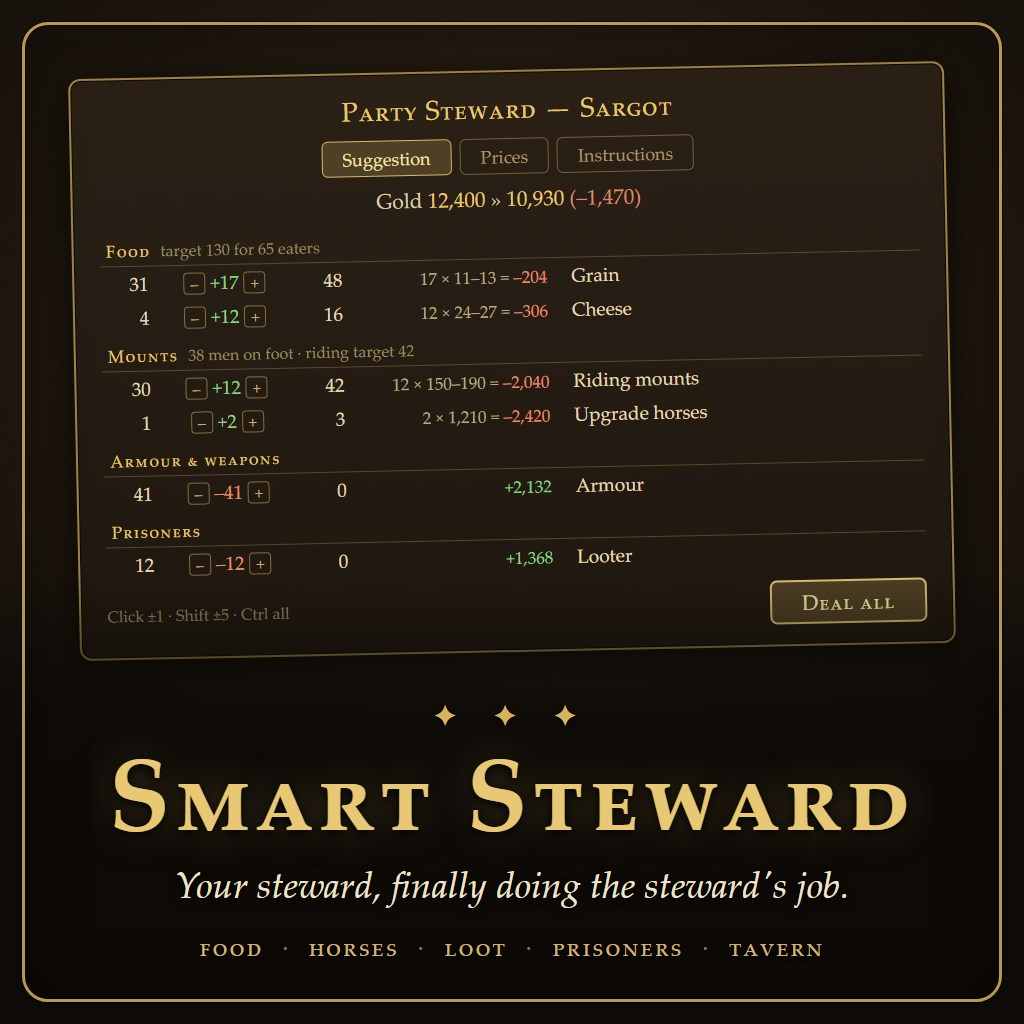
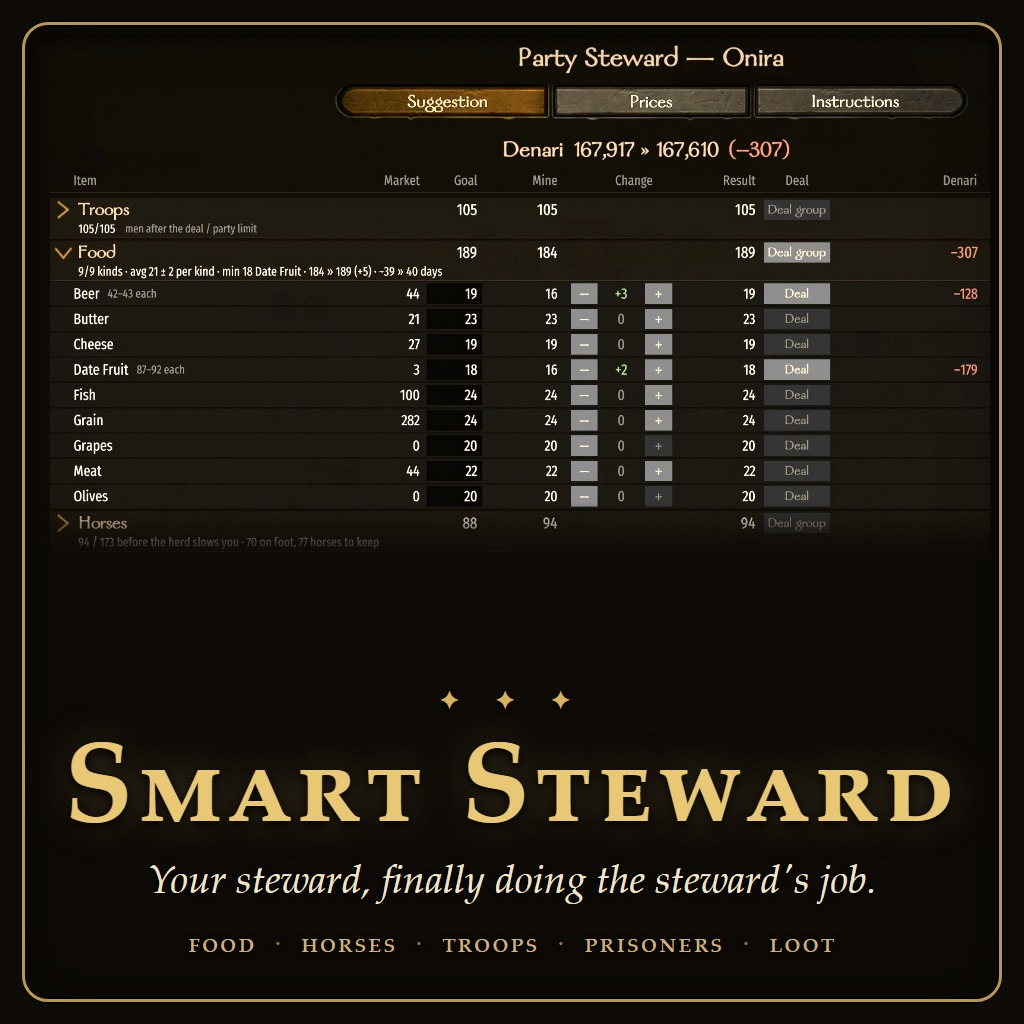
Release images: the real window - 7 gallery shots, Workshop preview and README cover
tools/make_screenshots.py crops Toni's F12 shots (2026-10-10, Onira) to the
Party Steward window alone (no message log, no other mods' widgets) into
Screenshots/01..07; tools/make_thumbnail.py renders preview_thumbnail.html
(1024 square) and the new cover.html (1600x900) from shot 01 with headless
Edge. Replaces render-preview.ps1 and the CSS-drawn stand-in ledger.

diff --git a/tools/preview_thumbnail.html b/tools/preview_thumbnail.html
@@ -1,113 +1,58 @@
 <!DOCTYPE html>
 <!--
-  The Steam Workshop preview (1024 x 1024), in the house style of TrainingBattles / ImmersiveAI: gold frame,
-  title block, feature strip. Render it to Screenshots\preview_thumbnail.jpg (Steam's cap is 1 MB) with:
-    powershell -ExecutionPolicy Bypass -File tools\render-preview.ps1
-  STAND-IN ART: no in-game screenshot existed when this was made (step 10, before Anton's first playtest), so the
-  "ledger" below is the Party Steward's Suggestion table drawn in CSS with made-up but plausible numbers. After the
-  playtest, replace it with a real shot of the window: set .art's background-image to the screenshot (as the
-  sibling mods do), delete the .ledger block, re-render - and upload real screenshots on the item page too.
+  The Steam Workshop preview (1024 x 1024), in the house style of the sibling mods (TrainingBattles, Better Skirmisher
+  Separation): gold frame, Palatino small caps title over a dark fade, one tagline. The art is the REAL Party Steward
+  window (Screenshots\01_suggestion_food.jpg, cropped by the script to title, tabs, Denari and the Food rows).
+  Rendered by:  python tools\make_thumbnail.py      (writes Screenshots\preview_thumbnail.jpg, under Steam's 1 MB)
+  ART_IMG is replaced by the script with the cropped panel's file URI.
 -->
 <html>
 <head>
 <meta charset="utf-8">
 <style>
   * { margin: 0; padding: 0; box-sizing: border-box; }
-  html, body { width: 1024px; height: 1024px; overflow: hidden; }
+  html, body { width: 1024px; height: 1024px; overflow: hidden; background: #0d0a07; }
   .canvas {
-    position: relative;
-    width: 1024px; height: 1024px;
-    background:
-      radial-gradient(ellipse 90% 70% at 50% 34%, #3a2c1b 0%, #1d160e 55%, #0d0a07 100%);
+    position: relative; width: 1024px; height: 1024px; background: #0d0a07;
     font-family: 'Palatino Linotype', 'Book Antiqua', Georgia, serif;
   }
-  /* A real screenshot goes here after the playtest (background-image), and the .ledger goes away. */
-  .art { position: absolute; inset: 0; }
+  .art {
+    position: absolute; left: 34px; top: 34px; width: 956px; height: 618px; border-radius: 16px 16px 0 0;
+    background: url('ART_IMG') center top / 956px 618px no-repeat;
+    filter: brightness(1.12) contrast(1.06);
+  }
   .shade {
     position: absolute; inset: 0;
-    background: linear-gradient(to bottom, rgba(13,10,7,0) 0%, rgba(13,10,7,0) 56%, rgba(13,10,7,0.85) 70%, rgba(13,10,7,1) 78%);
+    background:
+      radial-gradient(ellipse 120% 90% at 50% 30%, rgba(0,0,0,0) 50%, rgba(13,10,7,0.5) 85%, rgba(13,10,7,0.85) 100%),
+      linear-gradient(to bottom, rgba(0,0,0,0) 0%, rgba(0,0,0,0) 49%, rgba(13,10,7,0.8) 53%, rgba(13,10,7,1) 56%);
   }
   .frame {
     position: absolute; inset: 22px;
-    border: 3px solid rgba(214, 178, 94, 0.85);
-    border-radius: 26px;
+    border: 3px solid rgba(214, 178, 94, 0.85); border-radius: 26px;
     box-shadow: 0 0 0 1px rgba(0,0,0,0.6), inset 0 0 0 1px rgba(0,0,0,0.6), inset 0 0 60px rgba(0,0,0,0.35);
   }
-
-  /* ── the Party Steward window, drawn ─────────────────────────────────────── */
-  .ledger {
-    position: absolute; left: 74px; right: 74px; top: 70px;
-    background: linear-gradient(to bottom, #2a2016 0%, #1f1810 100%);
-    border: 2px solid rgba(214, 178, 94, 0.7);
-    border-radius: 12px;
-    box-shadow: 0 10px 40px rgba(0,0,0,0.75), inset 0 0 0 1px rgba(0,0,0,0.7);
-    padding: 18px 26px 20px;
-    color: #e6d8b8;
-    transform: rotate(-1.2deg);
-  }
-  .ledger .title { text-align: center; color: #e8c874; font-size: 27px; letter-spacing: 1px; font-variant: small-caps; }
-  .tabs { display: flex; justify-content: center; gap: 8px; margin: 12px 0 10px; }
-  .tab { padding: 5px 20px; border: 1px solid rgba(214,178,94,0.45); border-radius: 6px; font-size: 18px; color: #a8966e; }
-  .tab.on { background: rgba(214,178,94,0.22); color: #f3e2b0; border-color: rgba(232,200,116,0.9); }
-  .gold { text-align: center; font-size: 21px; margin-bottom: 10px; color: #d9cba8; }
-  .gold b { color: #e8c874; font-weight: normal; }
-  .gold .minus { color: #d98a6e; }
-  table { width: 100%; border-collapse: collapse; font-size: 19px; font-variant-numeric: tabular-nums; }
-  td { padding: 4px 6px; white-space: nowrap; }
-  tr.sec td { padding-top: 9px; color: #e8c874; font-size: 17px; letter-spacing: 1.5px; font-variant: small-caps; border-bottom: 1px solid rgba(214,178,94,0.3); }
-  tr.sec td span { color: #9c8a64; letter-spacing: 0; font-variant: normal; font-size: 16px; }
-  td.n { text-align: right; width: 54px; }
-  td.chg { text-align: center; width: 140px; }
-  td.chg i { font-style: normal; display: inline-block; width: 22px; height: 22px; line-height: 20px; margin: 0 5px;
-             border: 1px solid rgba(214,178,94,0.55); border-radius: 4px; font-size: 16px; color: #cdb27a; text-align: center; }
-  td.price { text-align: right; width: 205px; color: #b9a984; font-size: 17px; }
-  td.item { padding-left: 18px; }
-  .buy { color: #8fd18a; }
-  .sell { color: #e58f76; }
-  .foot { display: flex; justify-content: space-between; align-items: center; margin-top: 12px; font-size: 16px; color: #9c8a64; }
-  .doit { padding: 6px 30px; border: 2px solid rgba(232,200,116,0.95); border-radius: 7px; color: #f6e7bc;
-          background: rgba(214,178,94,0.25); font-size: 21px; font-variant: small-caps; letter-spacing: 1px; }
-
-  /* ── the title block, as the sibling mods ────────────────────────────────── */
-  .titleblock { position: absolute; left: 0; right: 0; bottom: 60px; text-align: center; }
-  .ornament { color: #d6b25e; font-size: 30px; letter-spacing: 14px; text-shadow: 0 2px 6px rgba(0,0,0,0.9); margin-bottom: 8px; }
+  .titleblock { position: absolute; left: 0; right: 0; bottom: 64px; text-align: center; }
+  .ornament { color: #d6b25e; font-size: 26px; letter-spacing: 14px; text-shadow: 0 2px 6px rgba(0,0,0,0.9); margin-bottom: 6px; }
   h1 {
-    color: #e8c874; font-size: 100px; font-weight: 600; letter-spacing: 5px; font-variant: small-caps; line-height: 1;
+    color: #e8c874; font-size: 112px; font-weight: 600; letter-spacing: 5px; font-variant: small-caps; line-height: 1;
     text-shadow: 0 3px 10px rgba(0,0,0,0.95), 0 0 45px rgba(232, 200, 116, 0.28);
   }
-  .tagline { margin-top: 16px; color: #f0e4c8; font-size: 37px; font-style: italic; text-shadow: 0 2px 8px rgba(0,0,0,0.95); }
-  .features { margin-top: 20px; color: #cdb27a; font-size: 26px; font-variant: small-caps; letter-spacing: 2px; text-shadow: 0 2px 6px rgba(0,0,0,0.95); }
-  .features .dot { color: #8a7448; padding: 0 10px; }
+  .tagline { margin-top: 16px; color: #f0e4c8; font-size: 40px; font-style: italic; text-shadow: 0 2px 8px rgba(0,0,0,0.95); }
+  .features { margin-top: 18px; color: #cdb27a; font-size: 28px; font-variant: small-caps; letter-spacing: 2px; text-shadow: 0 2px 6px rgba(0,0,0,0.95); }
+  .features .dot { color: #8a7448; padding: 0 9px; }
 </style>
 </head>
 <body>
   <div class="canvas">
     <div class="art"></div>
-    <div class="ledger">
-      <div class="title">Party Steward — Sargot</div>
-      <div class="tabs"><span class="tab on">Suggestion</span><span class="tab">Prices</span><span class="tab">Instructions</span></div>
-      <div class="gold">Gold <b>12,400</b> » <b>10,930</b> <span class="minus">(–1,470)</span></div>
-      <table>
-        <tr class="sec"><td colspan="5">Food <span>&nbsp;target 130 for 65 eaters</span></td></tr>
-        <tr><td class="n">31</td><td class="chg"><i>–</i><span class="buy">+17</span><i>+</i></td><td class="n">48</td><td class="price">17 × 11–13 = <span class="sell">–204</span></td><td class="item">Grain</td></tr>
-        <tr><td class="n">4</td><td class="chg"><i>–</i><span class="buy">+12</span><i>+</i></td><td class="n">16</td><td class="price">12 × 24–27 = <span class="sell">–306</span></td><td class="item">Cheese</td></tr>
-        <tr class="sec"><td colspan="5">Mounts <span>&nbsp;38 men on foot · riding target 42</span></td></tr>
-        <tr><td class="n">30</td><td class="chg"><i>–</i><span class="buy">+12</span><i>+</i></td><td class="n">42</td><td class="price">12 × 150–190 = <span class="sell">–2,040</span></td><td class="item">Riding mounts</td></tr>
-        <tr><td class="n">1</td><td class="chg"><i>–</i><span class="buy">+2</span><i>+</i></td><td class="n">3</td><td class="price">2 × 1,210 = <span class="sell">–2,420</span></td><td class="item">Upgrade horses</td></tr>
-        <tr class="sec"><td colspan="5">Armour &amp; weapons</td></tr>
-        <tr><td class="n">41</td><td class="chg"><i>–</i><span class="sell">–41</span><i>+</i></td><td class="n">0</td><td class="price"><span class="buy">+2,132</span></td><td class="item">Armour</td></tr>
-        <tr class="sec"><td colspan="5">Prisoners</td></tr>
-        <tr><td class="n">12</td><td class="chg"><i>–</i><span class="sell">–12</span><i>+</i></td><td class="n">0</td><td class="price"><span class="buy">+1,368</span></td><td class="item">Looter</td></tr>
-      </table>
-      <div class="foot"><span>Click ±1 · Shift ±5 · Ctrl all</span><span class="doit">Deal all</span></div>
-    </div>
     <div class="shade"></div>
     <div class="frame"></div>
     <div class="titleblock">
       <div class="ornament">✦ ✦ ✦</div>
       <h1>Smart Steward</h1>
       <div class="tagline">Your steward, finally doing the steward's job.</div>
-      <div class="features">food <span class="dot">·</span> horses <span class="dot">·</span> loot <span class="dot">·</span> prisoners <span class="dot">·</span> tavern</div>
+      <div class="features">food <span class="dot">·</span> horses <span class="dot">·</span> troops <span class="dot">·</span> prisoners <span class="dot">·</span> loot</div>
     </div>
   </div>
 </body>

diff --git a/tools/cover.html b/tools/cover.html
@@ -1,0 +1,54 @@
+<!DOCTYPE html>
+<!--
+  The README cover (1600 x 900): the real Party Steward window on top (Screenshots\01_suggestion_food.jpg, cropped by
+  the script from the title down to the Horses line), then the title block in the thumbnail's style - gold frame,
+  Palatino small caps, one tagline. Rendered by:  python tools\make_thumbnail.py  (writes Screenshots\cover.jpg)
+  ART_IMG is replaced by the script with the cropped panel's file URI.
+-->
+<html>
+<head>
+<meta charset="utf-8">
+<style>
+  * { margin: 0; padding: 0; box-sizing: border-box; }
+  html, body { width: 1600px; height: 900px; overflow: hidden; background: #0d0a07; }
+  .canvas {
+    position: relative; width: 1600px; height: 900px; background: #0d0a07;
+    font-family: 'Palatino Linotype', 'Book Antiqua', Georgia, serif;
+  }
+  .art {
+    position: absolute; left: 32px; top: 32px; width: 1536px; height: 648px; border-radius: 16px 16px 0 0;
+    background: url('ART_IMG') center top / 1536px 648px no-repeat;
+    filter: brightness(1.1) contrast(1.05);
+  }
+  .shade {
+    position: absolute; inset: 0;
+    background:
+      radial-gradient(ellipse 120% 100% at 50% 30%, rgba(0,0,0,0) 55%, rgba(13,10,7,0.5) 88%, rgba(13,10,7,0.8) 100%),
+      linear-gradient(to bottom, rgba(0,0,0,0) 0%, rgba(0,0,0,0) 62%, rgba(13,10,7,0.85) 72%, rgba(13,10,7,1) 78%);
+  }
+  .frame {
+    position: absolute; inset: 20px;
+    border: 3px solid rgba(214, 178, 94, 0.85); border-radius: 26px;
+    box-shadow: 0 0 0 1px rgba(0,0,0,0.6), inset 0 0 0 1px rgba(0,0,0,0.6), inset 0 0 60px rgba(0,0,0,0.35);
+  }
+  .titleblock { position: absolute; left: 0; right: 0; bottom: 52px; text-align: center; }
+  h1 {
+    color: #e8c874; font-size: 96px; font-weight: 600; letter-spacing: 5px; font-variant: small-caps; line-height: 1;
+    text-shadow: 0 3px 10px rgba(0,0,0,0.95), 0 0 45px rgba(232, 200, 116, 0.28);
+  }
+  .tagline { margin-top: 12px; color: #f0e4c8; font-size: 38px; font-style: italic; text-shadow: 0 2px 8px rgba(0,0,0,0.95); }
+  .tagline .dot { color: #d6b25e; font-style: normal; padding: 0 14px; }
+</style>
+</head>
+<body>
+  <div class="canvas">
+    <div class="art"></div>
+    <div class="shade"></div>
+    <div class="frame"></div>
+    <div class="titleblock">
+      <h1>Smart Steward</h1>
+      <div class="tagline">Your steward, finally doing the steward's job.</div>
+    </div>
+  </div>
+</body>
+</html>

diff --git a/tools/make_thumbnail.py b/tools/make_thumbnail.py
@@ -1,0 +1,87 @@
+r"""Builds the Steam Workshop preview and the README cover from the real Party Steward window.
+
+    python tools\make_thumbnail.py            # both
+    python tools\make_thumbnail.py --only thumbnail
+    python tools\make_thumbnail.py --only cover
+
+1. Crops Screenshots\01_suggestion_food.jpg (written by make_screenshots.py) to the part each image shows.
+2. Renders tools\preview_thumbnail.html (1024 x 1024) and tools\cover.html (1600 x 900) with headless Edge (or Chrome).
+3. Saves Screenshots\preview_thumbnail.jpg (the Workshop preview, square, under Steam's 1 MB cap) and
+   Screenshots\cover.jpg (the README image), stepping JPEG quality down until each is under 1 MB.
+Style = the sibling mods' thumbnails: gold frame, Palatino small caps title over a dark fade, one tagline.
+Work files (cropped panel, page, PNG) go to %TEMP%\smart_steward_images. Needs Pillow and Edge or Chrome.
+"""
+from __future__ import annotations
+
+import argparse
+import io
+import shutil
+import subprocess
+import sys
+import tempfile
+from pathlib import Path
+
+from PIL import Image
+
+REPO = Path(__file__).resolve().parent.parent
+SHOTS = REPO / "Screenshots"
+SOURCE = SHOTS / "01_suggestion_food.jpg"          # 2118 x 1292, the window alone
+WORK = Path(tempfile.gettempdir()) / "smart_steward_images"
+LIMIT = 1024 * 1024
+BROWSERS = [
+    r"C:\Program Files (x86)\Microsoft\Edge\Application\msedge.exe",
+    r"C:\Program Files\Microsoft\Edge\Application\msedge.exe",
+    r"C:\Program Files\Google\Chrome\Application\chrome.exe",
+]
+
+# name: template, output, page size, crop box in SOURCE pixels (same aspect as the HTML's .art)
+IMAGES = {
+    "thumbnail": ("preview_thumbnail.html", "preview_thumbnail.jpg", (1024, 1024),
+                  (20, 14, 1630, 1055)),    # title, tabs, Denari, Troops, Food rows, Horses; the Denari column last
+    "cover": ("cover.html", "cover.jpg", (1600, 900),
+              (29, 14, 2089, 883)),         # the whole width, title down to the Horses line
+}
+
+
+def render(name: str, browser: str) -> None:
+    template, out_name, (w, h), box = IMAGES[name]
+    panel = WORK / f"{name}_art.png"
+    Image.open(SOURCE).convert("RGB").crop(box).save(panel)
+    page = WORK / f"{name}.html"
+    page.write_text((REPO / "tools" / template).read_text(encoding="utf-8").replace("ART_IMG", panel.as_uri()),
+                    encoding="utf-8")
+    png = WORK / f"{name}.png"
+    png.unlink(missing_ok=True)
+    subprocess.run([browser, "--headless=new", "--disable-gpu", "--hide-scrollbars", "--force-device-scale-factor=1",
+                    "--allow-file-access-from-files", f"--user-data-dir={WORK / 'profile'}",
+                    f"--window-size={w},{h}", f"--screenshot={png}", page.as_uri()],
+                   check=True, capture_output=True, timeout=120)
+    img = Image.open(png).convert("RGB").crop((0, 0, w, h))
+    for q in (92, 90, 88, 85, 82, 78, 74, 70):
+        buf = io.BytesIO()
+        img.save(buf, "JPEG", quality=q, optimize=True, progressive=True)
+        if buf.tell() < LIMIT:
+            break
+    else:
+        sys.exit(f"{out_name} does not fit under 1 MB")
+    (SHOTS / out_name).write_bytes(buf.getvalue())
+    print(f"Screenshots\\{out_name}: {w}x{h}, {buf.tell():,} bytes, q{q}")
+
+
+def main() -> int:
+    ap = argparse.ArgumentParser(description=__doc__, formatter_class=argparse.RawDescriptionHelpFormatter)
+    ap.add_argument("--only", choices=sorted(IMAGES))
+    args = ap.parse_args()
+    if not SOURCE.exists():
+        sys.exit(f"{SOURCE} missing - run tools\\make_screenshots.py first")
+    browser = next((b for b in BROWSERS if Path(b).exists()), None) or shutil.which("msedge") or shutil.which("chrome")
+    if not browser:
+        sys.exit("Edge or Chrome not found.")
+    WORK.mkdir(parents=True, exist_ok=True)
+    for name in ([args.only] if args.only else IMAGES):
+        render(name, browser)
+    return 0
+
+
+if __name__ == "__main__":
+    sys.exit(main())

diff --git a/tools/make_screenshots.py b/tools/make_screenshots.py
@@ -1,0 +1,66 @@
+r"""Copies the chosen F12 shots of the Party Steward window into Screenshots\ - the Workshop gallery and README images.
+
+    python tools\make_screenshots.py                  # from Steam's screenshot folder (the defaults below)
+    python tools\make_screenshots.py --src D:\shots   # or wherever the originals are
+
+Each shot (3440x1440, taken 2026-10-10 in Onira) is cropped to the window alone - the town menu, the message log
+(it showed a Windows user path) and other mods' widgets stay out - and saved as JPEG under 1 MB (Steam's cap per
+image), stepping the quality down if needed. The numbered names are the gallery order, most telling first.
+Not used: the five battle shots of that evening (another mod) and 20261010205912 (the Horses part, already in 02).
+Needs Pillow.
+"""
+from __future__ import annotations
+
+import argparse
+import io
+import sys
+from pathlib import Path
+
+from PIL import Image
+
+REPO = Path(__file__).resolve().parent.parent
+OUT = REPO / "Screenshots"
+STEAM_SHOTS = Path(r"C:\Program Files (x86)\Steam\userdata\258577504\760\remote\261550\screenshots")
+LIMIT = 1024 * 1024
+WINDOW = (660, 74, 2778, 1366)          # the Party Steward window in a 3440x1440 shot, its gold-grey border included
+
+SHOTS = [  # (original, published name)
+    ("20261010205908_1.jpg", "01_suggestion_food.jpg"),
+    ("20261010205832_1.jpg", "02_suggestion_troops_horses.jpg"),
+    ("20261010205841_1.jpg", "03_instructions_general_money.jpg"),
+    ("20261010205846_1.jpg", "04_instructions_goals_food.jpg"),
+    ("20261010205850_1.jpg", "05_instructions_prices_pack_animals.jpg"),
+    ("20261010205853_1.jpg", "06_instructions_mounts.jpg"),
+    ("20261010205856_1.jpg", "07_instructions_prisoners_loot_tavern.jpg"),
+]
+
+
+def save_under_limit(img: Image.Image, path: Path, quality: int = 90) -> tuple[int, int]:
+    while True:
+        buf = io.BytesIO()
+        img.save(buf, "JPEG", quality=quality, optimize=True, progressive=True)
+        if buf.tell() < LIMIT or quality <= 60:
+            break
+        quality -= 4
+    if buf.tell() >= LIMIT:
+        sys.exit(f"{path.name} is still {buf.tell()} bytes at quality {quality}")
+    path.write_bytes(buf.getvalue())
+    return buf.tell(), quality
+
+
+def main() -> int:
+    ap = argparse.ArgumentParser(description=__doc__, formatter_class=argparse.RawDescriptionHelpFormatter)
+    ap.add_argument("--src", type=Path, default=STEAM_SHOTS)
+    args = ap.parse_args()
+    OUT.mkdir(exist_ok=True)
+    for src_name, out_name in SHOTS:
+        img = Image.open(args.src / src_name).convert("RGB")
+        if img.size != (3440, 1440):
+            sys.exit(f"{src_name} is {img.size}, expected 3440x1440 (WINDOW is in those pixels)")
+        size, q = save_under_limit(img.crop(WINDOW), OUT / out_name)
+        print(f"{out_name}: {WINDOW[2] - WINDOW[0]}x{WINDOW[3] - WINDOW[1]}, {size:,} bytes, q{q}")
+    return 0
+
+
+if __name__ == "__main__":
+    sys.exit(main())

diff --git a/TASKS_TODO.md b/TASKS_TODO.md
@@ -220,7 +220,7 @@ NOTICED (things spotted during a step, left for later):
 - [x] Step 9 (left on purpose): surplus riding horses are kept while an upgrade horse is on offer, even when the floors will not let the steward buy it — "never sell and buy mounts in one visit" taken strictly → step 17: the rule is gone (the riding surplus is sold against the war horses the plan buys)
 - [x] Step 10: README — translations welcome: copy module/ModuleData/Languages/std_SmartSteward.xml into Languages\XX (how-to in the file's header) — README + Steam page
 - [ ] Release day (after step 11): tools\WORKSHOP-UPLOAD.md — bump v1.0.0, package.ps1, create Private, paste the page, flip Public
-- [ ] Step 10: the Workshop preview is a drawn stand-in of the window — after the playtest put a real shot in tools\preview_thumbnail.html, re-render (tools\render-preview.ps1)
+- [x] Step 10: the Workshop preview is a drawn stand-in of the window → release prep: real F12 shots, tools\make_thumbnail.py
 - [ ] Step 10: the release ships no PDBs (like TrainingBattles) — with them a player's log would carry line numbers (~100 KB); Anton's call
 - [ ] TrainingBattles' package.ps1 zips with Compress-Archive → backslash entry names (seen in TrainingBattles_v1.4.0.zip); ours writes '/' — port it there
 - [ ] Step 12: a stuck Left Alt (after Alt+Tab) blocks entering towns in vanilla too — tell the player in game ("tap Left Alt")? now log-only (InputWatch); Anton's call

diff --git a/CLAUDE.md b/CLAUDE.md
@@ -245,7 +245,10 @@ tools/package.ps1             (step 10) the release gate + layout: clean build (
 tools/WORKSHOP-UPLOAD.md      (step 10) release day + the update loop + the uploader's quirks; WorkshopCreate.xml (once,
                               Private) / WorkshopUpdate.xml (item id filled after the create); nothing uploads by itself
 tools/STEAM-DESCRIPTION.bbcode  the Workshop page (Steam BBCode, cap 8000 UTF-8 bytes - measure after edits)
-tools/preview_thumbnail.html  the Workshop preview; tools/render-preview.ps1 → Screenshots/preview_thumbnail.jpg (< 1 MB)
+tools/make_screenshots.py     (release) Toni's F12 shots → Screenshots/01..07_*.jpg, cropped to the window (gallery order)
+tools/make_thumbnail.py       (release) preview_thumbnail.html + cover.html (art = Screenshots/01) → Screenshots/
+                              preview_thumbnail.jpg (Workshop preview, 1024², < 1 MB) + cover.jpg (README)
+tools/make_workshop_update.py (release) a one-off update task: WorkshopUpdate.xml + the bbcode, --notes, --visibility
 tools/render-mockup.ps1       (step 19) docs/mockups/suggestion_v2.html → its two PNGs (the everyday view + everything open)
 docs/                         DESIGN.md, RESEARCH.md, PLAYTEST.md (Anton's checklists per step); feedback/ (playtest notes
                               verbatim + screenshots); mockups/ (step 19: the round-4 Suggestion tab as one spreadsheet —

diff --git a/docs/mockups/README.md b/docs/mockups/README.md
@@ -56,7 +56,7 @@ the list below in one reply — "all fine", or the numbers you want changed.
 | `suggestion_v2_folded.png` | Food, Recruits, Your troops and Prisoners' details folded; Horses and Other open. 1640 × 1020. |
 | `suggestion_v2_expanded.png` | Everything open; a red dashed line marks where the real window's table ends (it scrolls from there). |
 
-Re-render both PNGs (headless Edge, as `render-preview.ps1`): `powershell -ExecutionPolicy Bypass -File tools\render-mockup.ps1`.
+Re-render both PNGs (headless Edge, as `make_thumbnail.py`): `powershell -ExecutionPolicy Bypass -File tools\render-mockup.ps1`.
 
 ## The deal drawn (Lycaron, from the round-4 screenshot; the rest invented to fit)
 
